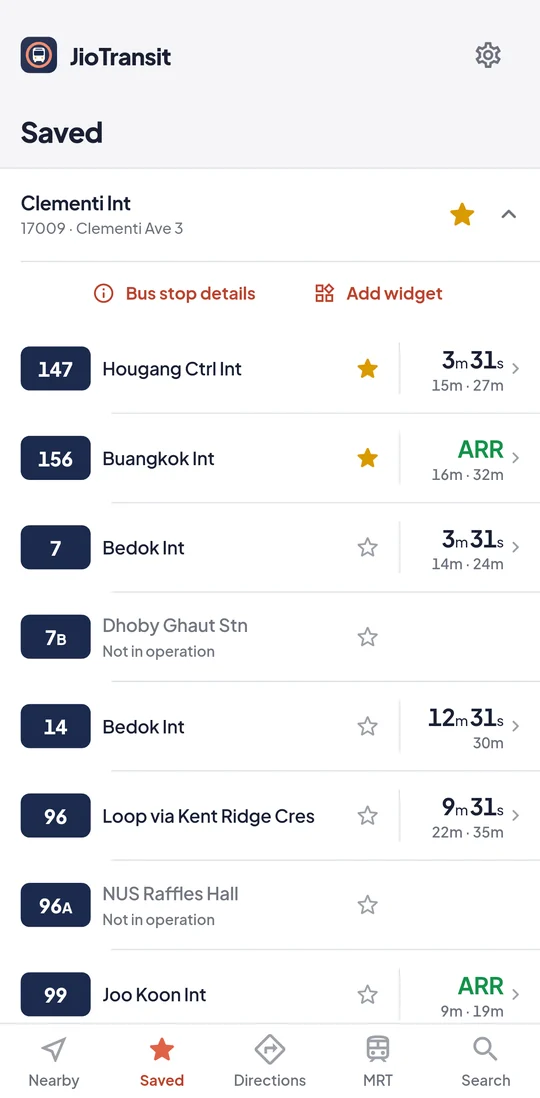
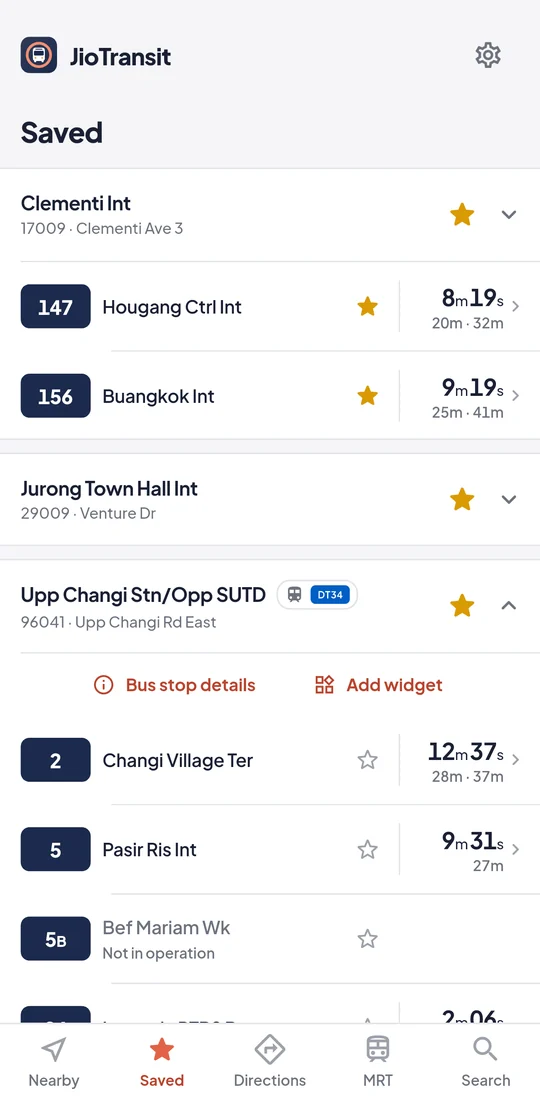
Homepage: Saved tab shot with three stops
Claude-Session: https://claude.ai/code/session_01AomwnyiEwP6MvpDMq2uKSW

diff --git a/index.html b/index.html
@@ -47,14 +47,14 @@
   <section class="feature">
     <div>
       <h2>Bus timings, to the second</h2>
-      <p>Save your stop and star your buses. They stay on top, with every other bus counting down below.</p>
+      <p>Save your stops and star your buses. Your buses stay on top, and every other bus is one tap away, counting down live.</p>
       <ul class="facts">
         <li>How full each bus is</li>
         <li>Double-decker and wheelchair access</li>
         <li>Your favourite buses first</li>
       </ul>
     </div>
-    <figure><img class="shot" src="assets/saved.webp" width="540" height="1098" loading="lazy" alt="Saved stop Clementi Int with Bus 147 and Bus 156 starred at the top, then every bus counting down"></figure>
+    <figure><img class="shot" src="assets/saved.webp" width="540" height="1098" loading="lazy" alt="Saved stops: Clementi Int with Bus 147 and Bus 156 starred, Jurong Town Hall Int, and Upp Changi Stn open with every bus counting down"></figure>
   </section>
 
   <section class="feature flip">
